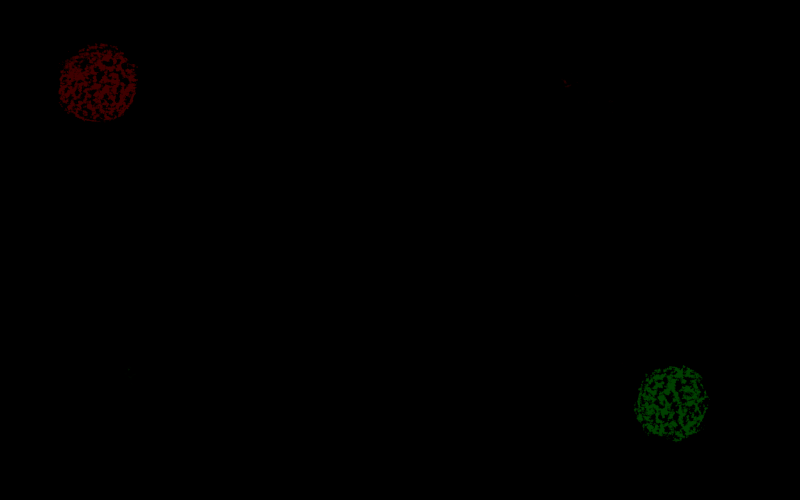
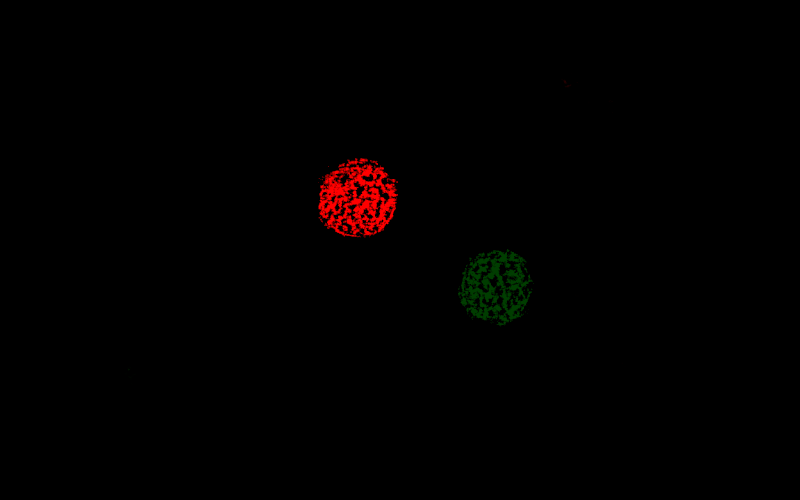
working test

diff --git a/input.go b/input.go
@@ -52,54 +52,69 @@ func SetKeyHandling(window *glfw.Window) {
 		}
 
 		// Handle keystrokes
-		translate_step_size := 0.01
-		zoom_step_size := 0.01
+		translate_step_size := 0.02
+		translate_mult := 1.0
+		zoom_step_size := 0.02
 
 		switch char {
 		case "65": // space
 			if action == Down || action == Repeat {
 				ActionReset = true
 			}
+		// ZOOM
+		// -----------------------------------------------
 		case "110": // home
 			if action == Down || action == Repeat {
-				ZOOM -= zoom_step_size
+				ZOOM = max(ZOOM-zoom_step_size, 0.0)
+				if action == Repeat {
+					ZOOM -= zoom_step_size // speed up
+				}
 			}
 		case "115": // end
 			if action == Down || action == Repeat {
-				ZOOM += zoom_step_size
+				ZOOM = min(ZOOM+zoom_step_size, 2.0)
+				if action == Repeat {
+					ZOOM += zoom_step_size // speed up
+				}
 			}
+		// PAN
+		// -----------------------------------------------
 		case "116": // arrow down
 			if action == Down || action == Repeat {
 				Y_TRANSLATE -= translate_step_size
-				// ActionDrawA -= 0.1
-				// if ActionDrawA < 0.0 {
-				// 	ActionDrawA = 0.0
-				// }
+				if action == Repeat {
+					Y_TRANSLATE -= translate_mult * translate_step_size // speed up
+				}
 			}
 		case "111": // arrow up
 			if action == Down || action == Repeat {
 				Y_TRANSLATE += translate_step_size
-				// ActionDrawA += 0.1
-				// if ActionDrawA > 1.0 {
-				// 	ActionDrawA = 1.0
-				// }
+				if action == Repeat {
+					Y_TRANSLATE += translate_mult * translate_step_size
+				}
 			}
 		case "113": // arrow left
 			if action == Down || action == Repeat {
 				X_TRANSLATE -= translate_step_size
-				// ActorDotRadius -= 0.002
-				// if ActorDotRadius < 0.0 {
-				// 	ActorDotRadius = 0.0
-				// }
+				if action == Repeat {
+					X_TRANSLATE -= translate_mult * translate_step_size
+				}
 			}
 		case "114": // arrow right
 			if action == Down || action == Repeat {
 				X_TRANSLATE += translate_step_size
-				// ActorDotRadius += 0.002
-				// if ActorDotRadius > 2.0 {
-				// 	ActorDotRadius = 2.0
-				// }
+				if action == Repeat {
+					X_TRANSLATE += translate_mult * translate_step_size
+				}
 			}
+		// TOGGLES
+		// -----------------------------------------------
+		case "h":
+			if action == Down {
+				SHOW_HUD = 1 - SHOW_HUD
+			}
+		// PRINT/RECORD
+		// -----------------------------------------------
 		case "p":
 			if action == Down {
 				ActionPrtsc = true

diff --git a/main.go b/main.go
@@ -68,6 +68,7 @@ var (
 	ZOOM        = 1.0
 	X_TRANSLATE = 0.0
 	Y_TRANSLATE = 0.0
+	SHOW_HUD    = 1
 
 	KeyWActive bool = false
 	KeyAActive bool = false
@@ -214,7 +215,8 @@ func UpdateGame() {
 
 	// Bind correct textures
 	data.Program.SetInt("PfGameTexture", int32(0))
-	data.Program.SetInt("PfSmellTexture", int32(1))
+	data.Program.SetInt("PfSmellRedTexture", int32(1))
+	data.Program.SetInt("PfSmellGreenTexture", int32(2))
 	gl.ActiveTexture(gl.TEXTURE0 + 0)                            // Game state
 	gl.BindTexture(gl.TEXTURE_2D, uint32(PfGameTextureID))       //
 	gl.ActiveTexture(gl.TEXTURE0 + 1)                            // Smell (blurred composite of game state)
@@ -323,6 +325,7 @@ func Draw() {
 	data.Program.SetFloat("ZOOM", float32(ZOOM))
 	data.Program.SetFloat("Y_TRANSLATE", float32(Y_TRANSLATE))
 	data.Program.SetFloat("X_TRANSLATE", float32(X_TRANSLATE))
+	data.Program.SetInt("SHOW_HUD", int32(SHOW_HUD))
 
 	// Draw Game state to screen
 	gl.DrawElements(gl.TRIANGLES, 6, gl.UNSIGNED_INT, gl.PtrOffset(0))

diff --git a/helper_funcs.go b/helper_funcs.go
@@ -3,7 +3,27 @@ package main
 import (
 	"image"
 	"os"
+
+	"golang.org/x/exp/constraints"
 )
+
+type Number interface {
+	constraints.Integer | constraints.Float
+}
+
+func max[T Number](a, b T) T {
+	if a > b {
+		return a
+	}
+	return b
+}
+
+func min[T Number](a, b T) T {
+	if a < b {
+		return a
+	}
+	return b
+}
 
 // Easy way to create a quad with a certain size and offset
 func CreateQuadVertexMatrix(size float32, x_offset float32, y_offset float32) []float32 {

diff --git a/README.md b/README.md
@@ -42,6 +42,7 @@ Alternatively, you can pass the setting as a first argument:
 ```bash
 GO111MODULE=off go get github.com/go-gl/gl/v4.5-core/gl
 GO111MODULE=off go get github.com/go-gl/glfw/v3.2/glfw
+
 ```
 
 Installation
@@ -55,6 +56,7 @@ go get github.com/go-gl/gl/v4.1-core/gl
 go get github.com/go-gl/glfw/v3.2/glfw
 go get github.com/dwrolvink/gogl
 go get gopkg.in/yaml.v3
+go get golang.org/x/exp/constraints
 ```
 
 Run
